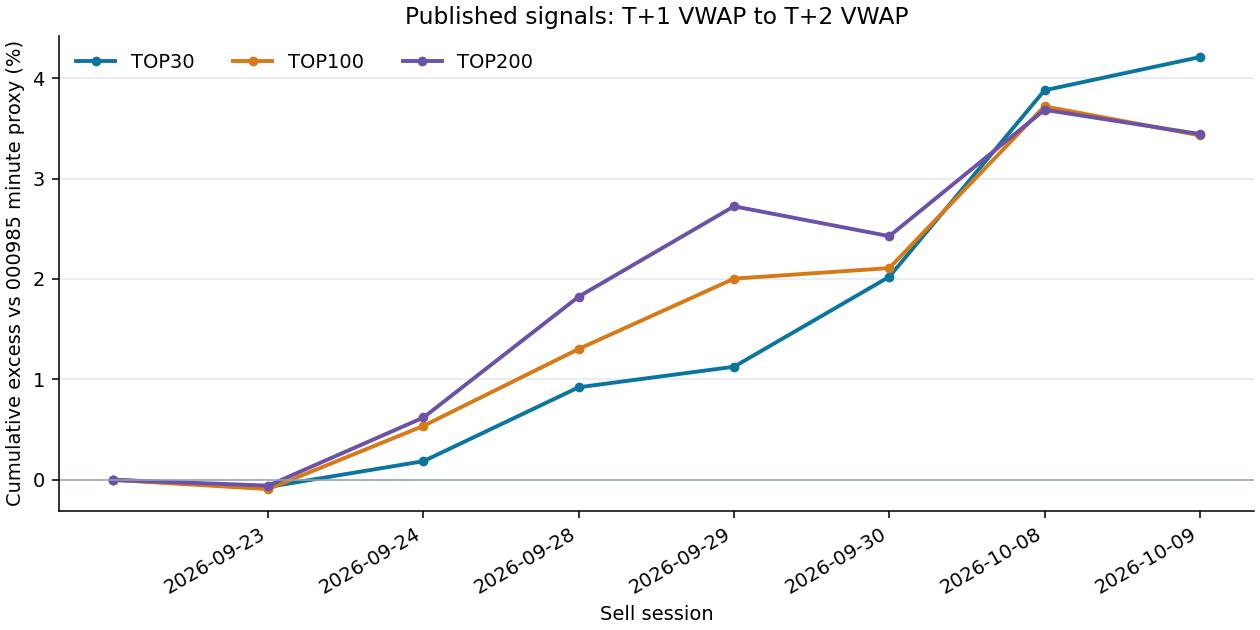
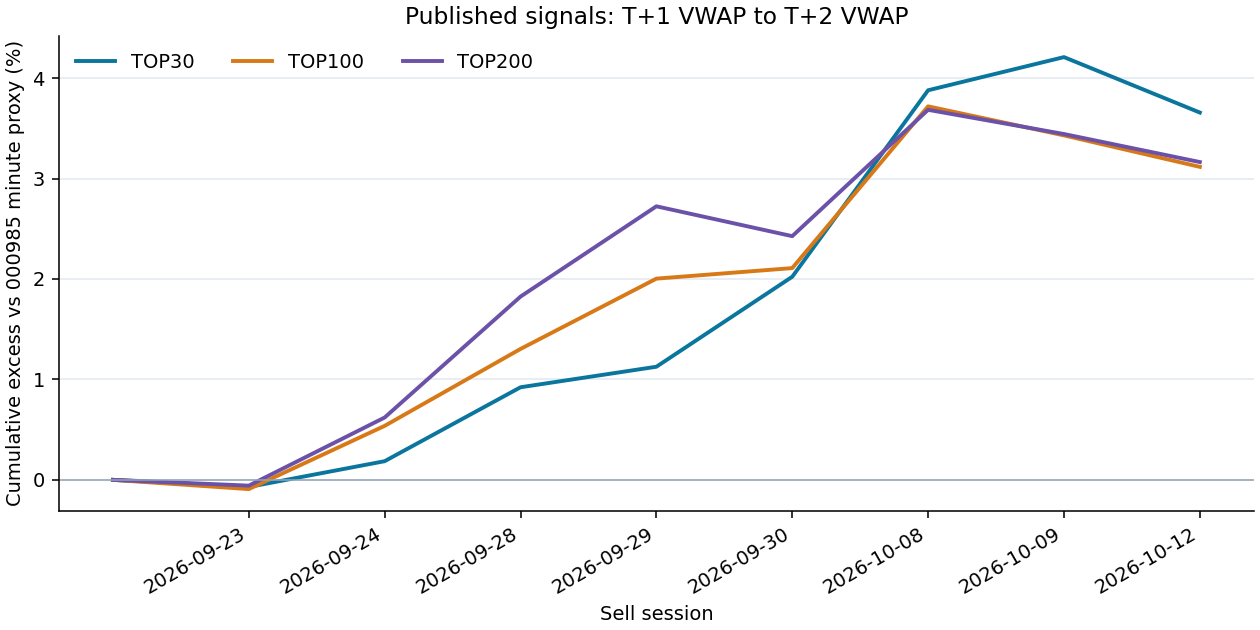
Update published signal performance through 2026-10-12

diff --git a/README.md b/README.md
@@ -17,13 +17,13 @@ CSV 编码为 UTF-8 BOM，按 `signal` 降序排列。
 <!-- PUBLIC_PERFORMANCE_START -->
 ## 已发布信号的历史表现
 
-仅统计本仓库 `signals/YYYY-MM-DD.csv` 已上传且买卖两日行情均完整的信号；截至 **2026-10-09**，共有 **7** 个已完成信号日，另有 **2** 个待结算或数据未齐。样本很短，暂无统计显著性结论。
+仅统计本仓库 `signals/YYYY-MM-DD.csv` 已上传且买卖两日行情均完整的信号；截至 **2026-10-12**，共有 **8** 个已完成信号日，另有 **2** 个待结算或数据未齐。样本很短，暂无统计显著性结论。
 
 | 组合 | 已完成信号日 | 组合累计收益 | 000985同期收益 | 累计超额 |
 |---|---:|---:|---:|---:|
-| TOP30 | 7 | -3.56% | -7.46% | +4.21% |
-| TOP100 | 7 | -4.28% | -7.46% | +3.43% |
-| TOP200 | 7 | -4.27% | -7.46% | +3.44% |
+| TOP30 | 8 | -3.69% | -7.08% | +3.66% |
+| TOP100 | 8 | -4.19% | -7.08% | +3.12% |
+| TOP200 | 8 | -4.14% | -7.08% | +3.16% |
 
 ![TOP30、TOP100、TOP200 累计超额净值](performance/excess_nav.png)
 
@@ -40,6 +40,7 @@ CSV 编码为 UTF-8 BOM，按 `signal` 降序排列。
 | 2026-09-28 | 2026-09-30 | +88.88 | +10.33 | -29.04 |
 | 2026-09-29 | 2026-10-08 | +180.63 | +156.52 | +121.89 |
 | 2026-09-30 | 2026-10-09 | +31.18 | -27.33 | -22.80 |
+| 2026-10-08 | 2026-10-12 | -53.19 | -30.43 | -27.09 |
 
 ![TOP30、TOP100、TOP200 逐日超额](performance/daily_excess.png)
 
